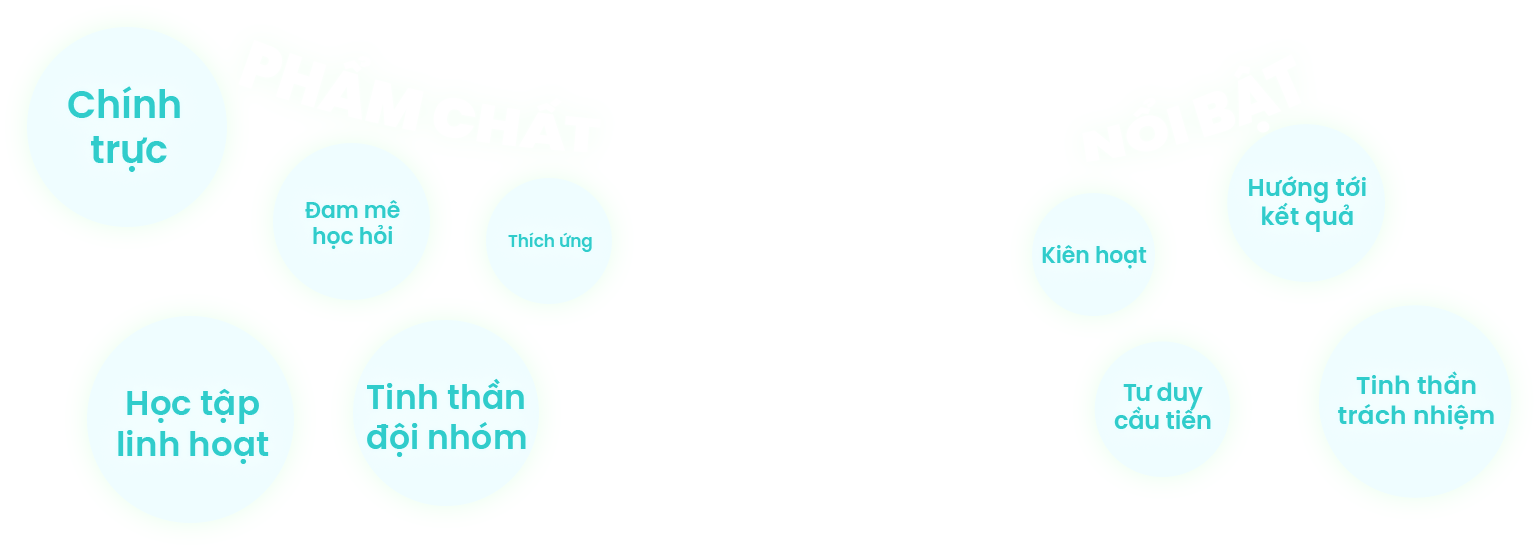
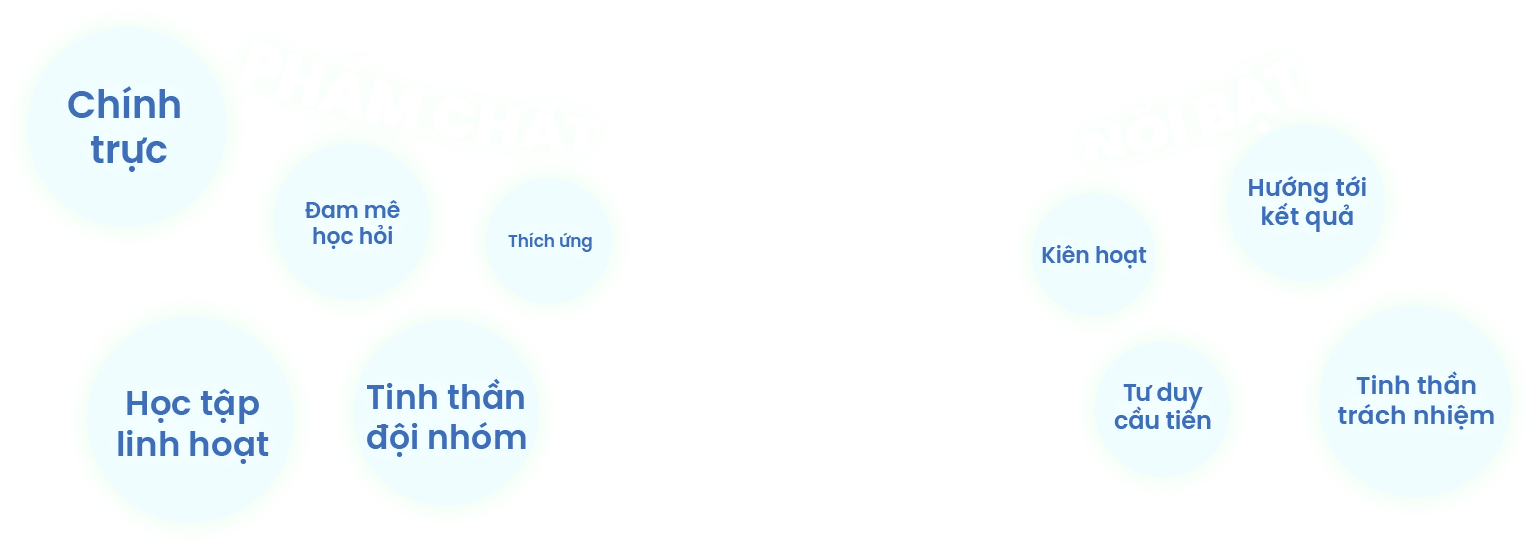
Fix UI

diff --git a/lib/presentation/landing/essence/widget.dart b/lib/presentation/landing/essence/widget.dart
@@ -213,13 +213,13 @@ class _EssenceWidget2State extends State<EssenceWidget2> {
         return Opacity(
           opacity: percentage,
           child: SizedBox(
-            height: 800.w,
+            height: 900.w,
             child: ValueListenableBuilder(
               valueListenable: LocaleUtility.locale,
               builder: (context, locale, child) {
                 return Column(
                   children: [
-                    150.w.hSpace,
+                    200.w.hSpace,
                     locale.languageCode == 'en'
                         ? Assets.images.essence.winning.image(
                             height: 350.w,
